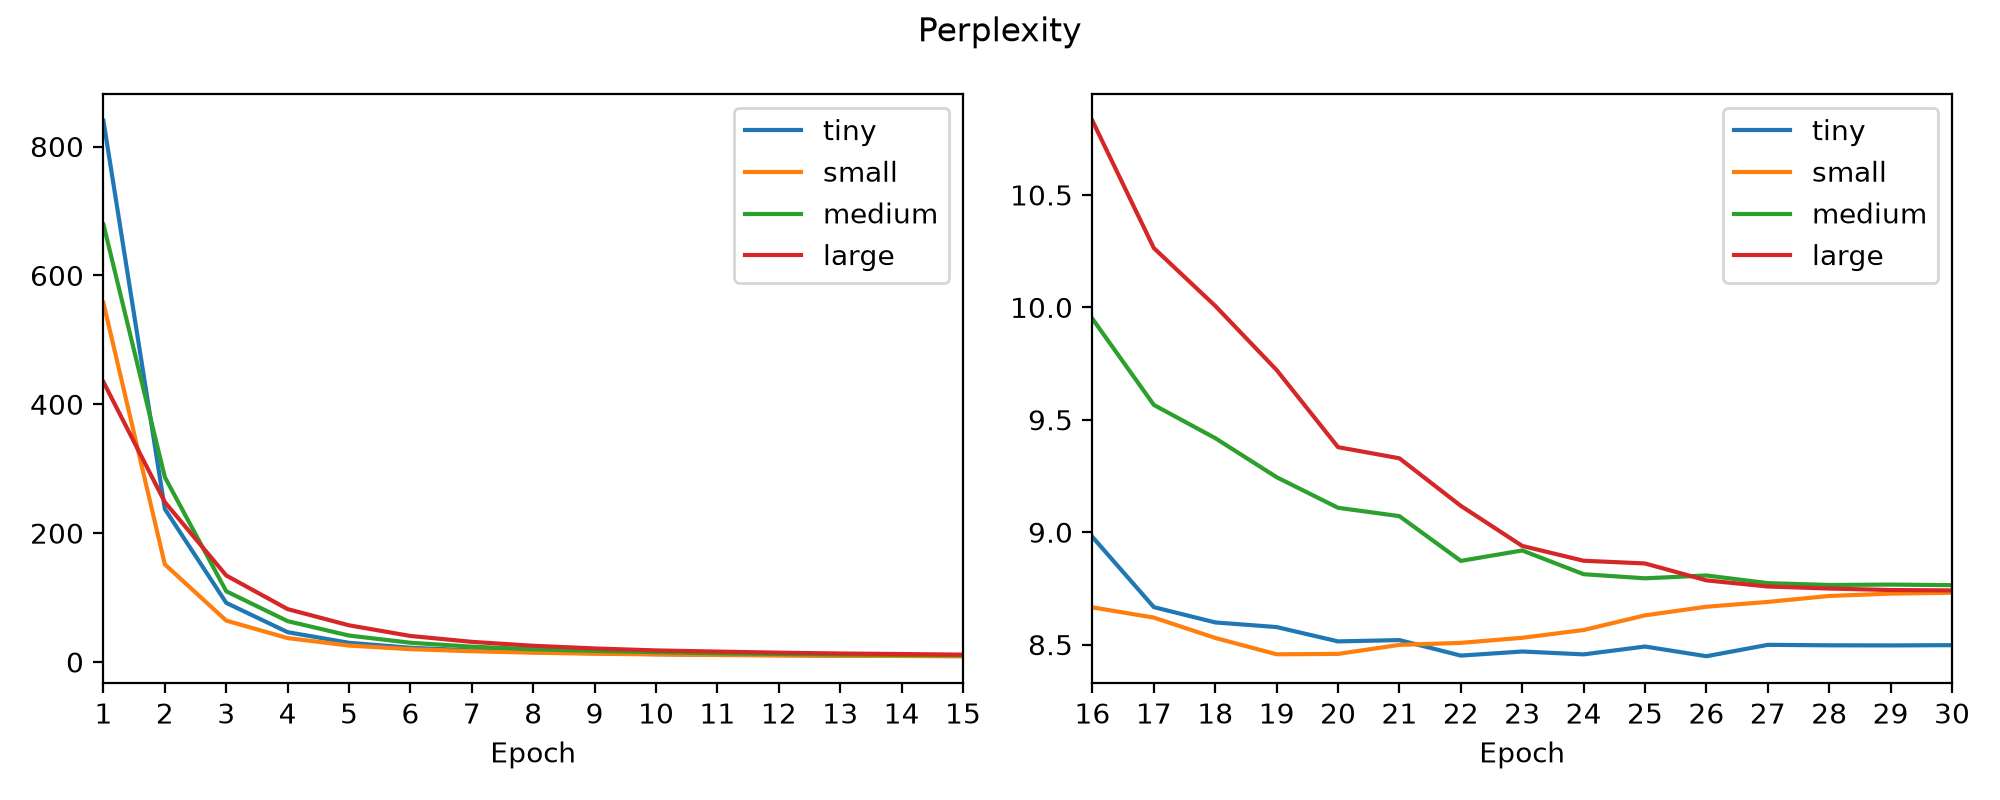
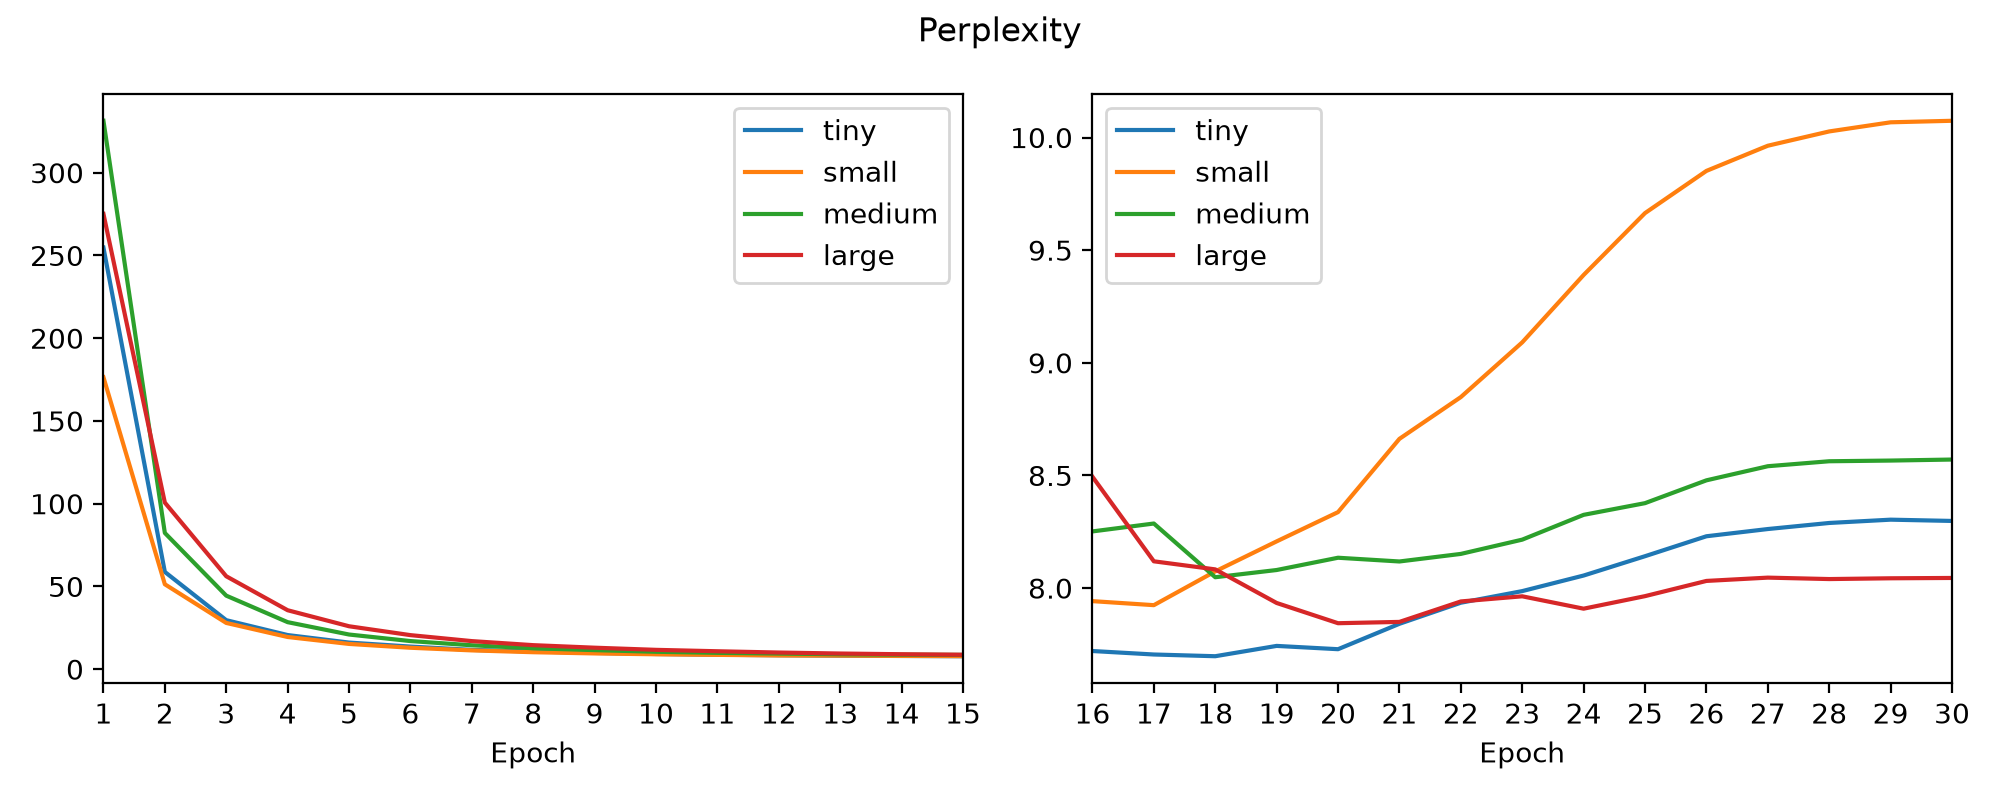
Add sentences to translate, re-run evalulation

diff --git a/ex6/evaluate.py b/ex6/evaluate.py
@@ -13,6 +13,10 @@ from transformer_skeleton import TranslationModel, get_model_config
 
 MODELS = ["tiny", "small", "medium", "large"]
 MAX_LEN = signature(create_data_loaders).parameters["max_len"].default
+SENTENCES = [
+    "Could you please confirm your availability for a meeting next Monday?",
+    "Refrain, audacious tart, your suit from pressing.",
+]
 
 
 @torch.no_grad()
@@ -59,7 +63,17 @@ def main():
             {"model_size": model_size, "perplexity": perplexity, "chrf": chrf}
         )
 
-        print(f"{model_size}: perplexity={perplexity:.2f}, ChrF={chrf:.2f}")
+        print(f"{model_size}:")
+        for sentence in SENTENCES:
+            src = torch.tensor(
+                src_tokeniser.encode(sentence, add_eos=True, max_len=MAX_LEN),
+                dtype=torch.long,
+                device=device,
+            ).unsqueeze(0)
+            translation = tgt_tokeniser.decode(
+                model.generate(src, BOS_IDX, EOS_IDX, max_len=MAX_LEN)[0].cpu().tolist()
+            )
+            print(f"EN: {sentence}\nJP: {translation}")
 
     if not results:
         raise SystemExit("No checkpoints found.")